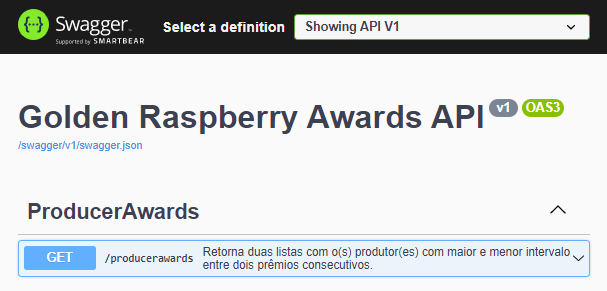
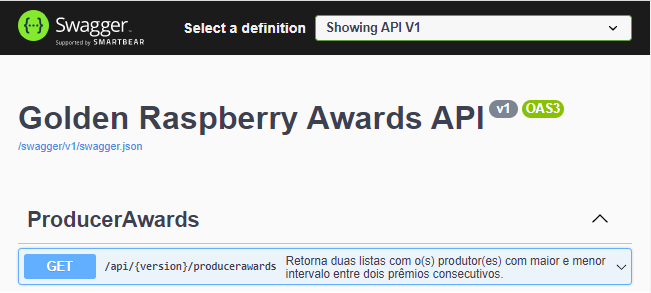
Inserindo versionamento na web api.

diff --git a/golden.raspberry.awards.api.tests/Controllers/ProducerAwardsControllerTests.cs b/golden.raspberry.awards.api.tests/Controllers/ProducerAwardsControllerTests.cs
@@ -26,6 +26,8 @@ namespace golden.raspberry.awards.api.tests
         private AppDbContext _appDbContext;
         private SqliteConnection _sqliteConnection;
 
+        private const int ApiVersion = 1;
+
         [SetUp]
         public void Setup()
         {
@@ -64,7 +66,7 @@ namespace golden.raspberry.awards.api.tests
             _appDbContext.SaveChanges();
 
             //Act
-            var response = await _client.GetAsync("/producerawards");
+            var response = await _client.GetAsync($"/api/{ApiVersion}/producerawards");
             response.EnsureSuccessStatusCode();
 
             var producerAwardResult = JsonConvert.DeserializeObject<ProducerAwardResult>(response.Content.ReadAsStringAsync().Result);
@@ -106,7 +108,7 @@ namespace golden.raspberry.awards.api.tests
             _appDbContext.SaveChanges();
 
             //Act
-            var response = await _client.GetAsync("/producerawards");
+            var response = await _client.GetAsync($"/api/{ApiVersion}/producerawards");
             response.EnsureSuccessStatusCode();
 
             var producerAwardResult = JsonConvert.DeserializeObject<ProducerAwardResult>(response.Content.ReadAsStringAsync().Result);
@@ -142,7 +144,7 @@ namespace golden.raspberry.awards.api.tests
             _appDbContext.SaveChanges();
 
             //Act
-            var response = await _client.GetAsync("/producerawards");
+            var response = await _client.GetAsync($"/api/{ApiVersion}/producerawards");
             response.EnsureSuccessStatusCode();
 
             var producerAwardResult = JsonConvert.DeserializeObject<ProducerAwardResult>(response.Content.ReadAsStringAsync().Result);
@@ -161,7 +163,7 @@ namespace golden.raspberry.awards.api.tests
             var expectedCount = 0;
 
             //Act
-            var response = await _client.GetAsync("/producerawards");
+            var response = await _client.GetAsync($"/api/{ApiVersion}/producerawards");
             response.EnsureSuccessStatusCode();
 
             var producerAwardResult = JsonConvert.DeserializeObject<ProducerAwardResult>(response.Content.ReadAsStringAsync().Result);
@@ -193,7 +195,7 @@ namespace golden.raspberry.awards.api.tests
             _appDbContext.SaveChanges();
 
             //Act
-            var response = await _client.GetAsync("/producerawards");
+            var response = await _client.GetAsync($"/api/{ApiVersion}/producerawards");
             response.EnsureSuccessStatusCode();
 
             var producerAwardResult = JsonConvert.DeserializeObject<ProducerAwardResult>(response.Content.ReadAsStringAsync().Result);
@@ -225,7 +227,7 @@ namespace golden.raspberry.awards.api.tests
             _appDbContext.SaveChanges();
 
             //Act
-            var response = await _client.GetAsync("/producerawards");
+            var response = await _client.GetAsync($"/api/{ApiVersion}/producerawards");
             response.EnsureSuccessStatusCode();
 
             var producerAwardResult = JsonConvert.DeserializeObject<ProducerAwardResult>(response.Content.ReadAsStringAsync().Result);
@@ -261,7 +263,7 @@ namespace golden.raspberry.awards.api.tests
             _appDbContext.SaveChanges();
 
             //Act
-            var response = await _client.GetAsync("/producerawards");
+            var response = await _client.GetAsync($"/api/{ApiVersion}/producerawards");
             response.EnsureSuccessStatusCode();
 
             var producerAwardResult = JsonConvert.DeserializeObject<ProducerAwardResult>(response.Content.ReadAsStringAsync().Result);
@@ -303,7 +305,7 @@ namespace golden.raspberry.awards.api.tests
             _appDbContext.SaveChanges();
 
             //Act
-            var response = await _client.GetAsync("/producerawards");
+            var response = await _client.GetAsync($"/api/{ApiVersion}/producerawards");
             response.EnsureSuccessStatusCode();
 
             var producerAwardResult = JsonConvert.DeserializeObject<ProducerAwardResult>(response.Content.ReadAsStringAsync().Result);
@@ -342,7 +344,7 @@ namespace golden.raspberry.awards.api.tests
             _appDbContext.SaveChanges();
 
             //Act
-            var response = await _client.GetAsync("/producerawards");
+            var response = await _client.GetAsync($"/api/{ApiVersion}/producerawards");
             response.EnsureSuccessStatusCode();
 
             var producerAwardResult = JsonConvert.DeserializeObject<ProducerAwardResult>(response.Content.ReadAsStringAsync().Result);

diff --git a/golden.raspberry.awards.api/Controllers/v1/MovieAwardsController.cs b/golden.raspberry.awards.api/Controllers/v1/MovieAwardsController.cs
@@ -1,0 +1,124 @@
+using golden.raspberry.awards.api.Application.Services;
+using golden.raspberry.awards.api.Application.Validators;
+using golden.raspberry.awards.api.Domain.Entities;
+using Microsoft.AspNetCore.Mvc;
+using Microsoft.Extensions.Logging;
+using System;
+
+namespace golden.raspberry.awards.api.Controllers.v1
+{
+    [ApiController]
+    [Route("api/{version:apiVersion}/[controller]")]
+    [ApiVersion("1.0")]
+    public class MovieAwardsController : ControllerBase
+    {
+        private readonly ILogger<MovieAwardsController> _logger;
+        public readonly IBaseService<MovieAwardNomination> _baseService;
+
+        public MovieAwardsController(ILogger<MovieAwardsController> logger,
+            IBaseService<MovieAwardNomination> baseService)
+        {
+            _logger = logger;
+            _baseService = baseService;
+        }
+
+        /// <summary>
+        /// Retorna a lista de indicados e vencedores da categoria Pior Filme do Golden Raspberry Awards.
+        /// </summary>
+        /// <response code="500">
+        ///     ## Exception type unknown:
+        ///     - **500:** Ocorreu um erro inesperado no servidor. Verifique a mensagem de erro.
+        /// </response>
+        [HttpGet]
+        public IActionResult Get()
+        {
+            return Execute(() => _baseService.Get());
+        }
+
+        /// <summary>
+        /// Retorna o indicado da categoria Pior Filme do Golden Raspberry Awards através do seu identificador.
+        /// </summary>
+        /// <response code="500">
+        ///     ## Exception type unknown:
+        ///     - **500:** Ocorreu um erro inesperado no servidor. Verifique a mensagem de erro.
+        /// </response>
+        [HttpGet("{id}")]
+        public IActionResult Get(int id)
+        {
+            if (id == 0)
+                return NotFound();
+
+            return Execute(() => _baseService.GetById(id));
+        }
+
+        /// <summary>
+        /// Cria um indicado da categoria Pior Filme do Golden Raspberry Awards.
+        /// </summary>
+        /// <response code="500">
+        ///     ## Exception type unknown:
+        ///     - **500:** Ocorreu um erro inesperado no servidor. Verifique a mensagem de erro.
+        /// </response>
+        [HttpPost]
+        public IActionResult Post([FromBody] MovieAwardNomination movieAward)
+        {
+            if (movieAward == null)
+                return NotFound();
+
+            try
+            {
+                return CreatedAtAction(nameof(Post), _baseService.Add<MovieAwardValidator>(movieAward).Id, movieAward.Id);
+            }
+            catch (Exception ex)
+            {
+                return BadRequest(new { ErrorMessage = ex.Message });
+            }
+        }
+
+        /// <summary>
+        /// Atualiza um indicado da categoria Pior Filme do Golden Raspberry Awards.
+        /// </summary>
+        /// <response code="500">
+        ///     ## Exception type unknown:
+        ///     - **500:** Ocorreu um erro inesperado no servidor. Verifique a mensagem de erro.
+        /// </response>
+        [HttpPut]
+        public IActionResult Put([FromBody] MovieAwardNomination movieAward)
+        {
+            if (movieAward == null)
+                return NotFound();
+
+            return Execute(() => _baseService.Update<MovieAwardValidator>(movieAward));
+        }
+
+        /// <summary>
+        /// Deleta um indicado da categoria Pior Filme do Golden Raspberry Awards através do seu identificador.
+        /// </summary>
+        /// <response code="500">
+        ///     ## Exception type unknown:
+        ///     - **500:** Ocorreu um erro inesperado no servidor. Verifique a mensagem de erro.
+        /// </response>
+        [HttpDelete("{id}")]
+        public IActionResult Delete(int id)
+        {
+            if (id == 0)
+                return NotFound();
+
+            Execute(() => { _baseService.Delete(id); return true; });
+
+            return new NoContentResult();
+        }
+
+        private IActionResult Execute(Func<object> func)
+        {
+            try
+            {
+                var result = func();
+                return Ok(result);
+            }
+            catch (Exception ex)
+            {
+                return BadRequest(new { ErrorMessage = ex.Message });
+            }
+        }
+    }
+}

diff --git a/golden.raspberry.awards.api.tests/Controllers/MovieAwardsControllerTests.cs b/golden.raspberry.awards.api.tests/Controllers/MovieAwardsControllerTests.cs
@@ -28,6 +28,8 @@ namespace golden.raspberry.awards.api.tests.Controllers
         private AppDbContext _appDbContext;
         private SqliteConnection _sqliteConnection;
 
+        private const int ApiVersion = 1;
+
         [OneTimeSetUp]
         public void OnTypeSetup()
         {
@@ -63,7 +65,7 @@ namespace golden.raspberry.awards.api.tests.Controllers
             var expectedCount = 206;
 
             //Act
-            var response = await _client.GetAsync("/movieawards");
+            var response = await _client.GetAsync($"/api/{ApiVersion}/movieawards");
             response.EnsureSuccessStatusCode();
 
             var movieAwardNominations = JsonConvert.DeserializeObject<List<MovieAwardNomination>>(response.Content.ReadAsStringAsync().Result);
@@ -76,7 +78,7 @@ namespace golden.raspberry.awards.api.tests.Controllers
         public async Task Quando_BuscarPorIdNaoExistente_Deve_Retornar_NuloECodigoSemConteudo()
         {
             //Act
-            var response = await _client.GetAsync("/movieawards/500");
+            var response = await _client.GetAsync($"/api/{ApiVersion}/movieawards/500");
             response.EnsureSuccessStatusCode();
 
             var movieAwardNomination = JsonConvert.DeserializeObject<MovieAwardNomination>(response.Content.ReadAsStringAsync().Result);
@@ -93,7 +95,7 @@ namespace golden.raspberry.awards.api.tests.Controllers
             var expectedId = 8;
 
             //Act
-            var response = await _client.GetAsync("/movieawards/8");
+            var response = await _client.GetAsync($"/api/{ApiVersion}/movieawards/8");
             response.EnsureSuccessStatusCode();
 
             var movieAwardNomination = JsonConvert.DeserializeObject<MovieAwardNomination>(response.Content.ReadAsStringAsync().Result);
@@ -109,7 +111,7 @@ namespace golden.raspberry.awards.api.tests.Controllers
             //Arrange
 
             //Act
-            var response = await _client.GetAsync("/movieawards/0");
+            var response = await _client.GetAsync($"/api/{ApiVersion}/movieawards/0");
 
             //Assert
             response.StatusCode.Should().Be(HttpStatusCode.NotFound);
@@ -129,7 +131,7 @@ namespace golden.raspberry.awards.api.tests.Controllers
             var content = new StringContent(manJson, Encoding.UTF8, "application/json");
 
             //Act
-            var response = await _client.PostAsync("/movieawards", content);
+            var response = await _client.PostAsync($"/api/{ApiVersion}/movieawards", content);
             response.EnsureSuccessStatusCode();
 
             var result = response.Content.ReadAsStringAsync().Result;
@@ -154,7 +156,7 @@ namespace golden.raspberry.awards.api.tests.Controllers
             var content = new StringContent(manJson, Encoding.UTF8, "application/json");
 
             //Act
-            var response = await _client.PutAsync("/movieawards", content);
+            var response = await _client.PutAsync($"/api/{ApiVersion}/movieawards", content);
             response.EnsureSuccessStatusCode();
 
             var movieAwardNominationResult = JsonConvert.DeserializeObject<MovieAwardNomination>(response.Content.ReadAsStringAsync().Result);
@@ -175,7 +177,7 @@ namespace golden.raspberry.awards.api.tests.Controllers
             //Arrange
 
             //Act
-            var response = await _client.DeleteAsync("/movieawards/1");
+            var response = await _client.DeleteAsync($"/api/{ApiVersion}/movieawards/1");
             response.EnsureSuccessStatusCode();
 
             //Assert

diff --git a/golden.raspberry.awards.api/Controllers/v1/ProducerAwardsController.cs b/golden.raspberry.awards.api/Controllers/v1/ProducerAwardsController.cs
@@ -1,0 +1,52 @@
+using golden.raspberry.awards.api.Application.Services;
+using golden.raspberry.awards.api.Domain.Entities;
+using Microsoft.AspNetCore.Mvc;
+using Microsoft.Extensions.Logging;
+using System;
+
+namespace golden.raspberry.awards.api.Controllers.v1
+{
+    [ApiController]
+    [Route("api/{version:apiVersion}/[controller]")]
+    [ApiVersion("1.0")]
+    public class ProducerAwardsController : ControllerBase
+    {
+        private readonly ILogger<MovieAwardsController> _logger;
+        public readonly IProducerAwardService _producerAwardService;
+
+        public ProducerAwardsController(ILogger<MovieAwardsController> logger,
+            IProducerAwardService producerAwardService)
+        {
+            _logger = logger;
+            _producerAwardService = producerAwardService;
+        }
+
+
+        /// <summary>
+        /// Retorna duas listas com o(s) produtor(es) com maior e menor intervalo entre dois prêmios consecutivos.
+        /// </summary>
+        /// <response code="500">
+        ///     ## Exception type unknown:
+        ///     - **500:** Ocorreu um erro inesperado no servidor. Verifique a mensagem de erro.
+        /// </response>
+        [HttpGet]
+        [ProducesResponseType(typeof(ProducerAwardResult), 200)]
+        public IActionResult Get()
+        {
+            return Execute(() => _producerAwardService.GetProducerAwardsResults());
+        }
+
+        private IActionResult Execute(Func<object> func)
+        {
+            try
+            {
+                var result = func();
+                return Ok(result);
+            }
+            catch (Exception ex)
+            {
+                return BadRequest(new { ErrorMessage = ex.Message });
+            }
+        }
+    }
+}

diff --git a/golden.raspberry.awards.api/Startup.cs b/golden.raspberry.awards.api/Startup.cs
@@ -1,6 +1,7 @@
 using golden.raspberry.awards.api.Extensions;
 using Microsoft.AspNetCore.Builder;
 using Microsoft.AspNetCore.Hosting;
+using Microsoft.AspNetCore.Mvc;
 using Microsoft.Extensions.Configuration;
 using Microsoft.Extensions.DependencyInjection;
 using Microsoft.Extensions.Hosting;
@@ -25,6 +26,13 @@ namespace golden.raspberry.awards.api
         public void ConfigureServices(IServiceCollection services)
         {
             services.AddControllers();
+            services.AddApiVersioning(setup =>
+            {
+                setup.DefaultApiVersion = ApiVersion.Default;
+                setup.AssumeDefaultVersionWhenUnspecified = true;
+                setup.ReportApiVersions = true;
+            });
+
             services.AddRouting(options => options.LowercaseUrls = true);
             services.AddDependencies(Configuration);
 
@@ -41,9 +49,7 @@ namespace golden.raspberry.awards.api
                 var xmlFile = $"{Assembly.GetExecutingAssembly().GetName().Name}.xml";
                 var xmlPath = Path.Combine(AppContext.BaseDirectory, xmlFile);
                 c.IncludeXmlComments(xmlPath);
-
             });
-
         }
 
         public void Configure(IApplicationBuilder app, IWebHostEnvironment env)

diff --git a/README.md b/README.md
@@ -24,7 +24,7 @@ git clone https://github.com/DiegoAntunes/golden.raspberry.awards.git
 
 - Utilizar o browser para chamar o recurso principal do controlador ProducerAwars:
 ```
-https://localhost:44331/producerawards
+https://localhost:44331/api/producerawards
 ```
 - Ou utilizar a chamada diretamente pela interface do Swagger:
 ![ProducerAwards Controller](./ProducerAwards.png)
